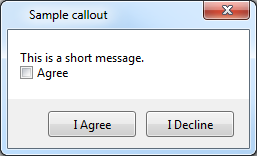
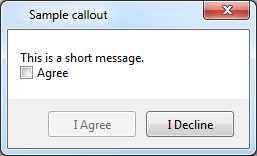
Add IsEnabled button configuration for WPF

Changed region(s): [[0.1868, 0.6923, 0.5292, 0.8974]]

diff --git a/CrossPlatformLibrary.Callouts.Netfx/CustomMessageBox/CustomMessageBoxWindow.xaml b/CrossPlatformLibrary.Callouts.Netfx/CustomMessageBox/CustomMessageBoxWindow.xaml
@@ -70,6 +70,7 @@
                                     Visibility="Visible" 
                                     DockPanel.Dock="Right" 
                                     Click="OnButtonClicked"
+                                    IsEnabled="{Binding IsEnabled}"
                                     Tag="{Binding}">
                                 <Label Content="{Binding Text}" Padding="0" Margin="10,0" />
                             </Button>

diff --git a/CrossPlatformLibrary.Callouts/ButtonConfig.cs b/CrossPlatformLibrary.Callouts/ButtonConfig.cs
@@ -1,4 +1,6 @@
 using System;
+using System.ComponentModel;
+using System.Runtime.CompilerServices;
 
 namespace CrossPlatformLibrary.Callouts
 {
@@ -6,12 +8,10 @@ namespace CrossPlatformLibrary.Callouts
     /// ButtonConfig is the platform-independent abstraction
     /// of a dialog button.
     /// </summary>
-    public class ButtonConfig
+    public class ButtonConfig : INotifyPropertyChanged
     {
         private bool isEnabled;
-
-        public event EventHandler<bool> EnabledChanged;
-
+        
         /// <summary>
         /// Initializes a new instance of the <see cref="ButtonConfig"/> class.
         /// </summary>
@@ -44,18 +44,32 @@ namespace CrossPlatformLibrary.Callouts
                 if (this.isEnabled != value)
                 {
                     this.isEnabled = value;
+                    this.OnPropertyChanged();
                     this.OnEnabledChanged(value);
                 }
             }
         }
 
-        ////public bool IsPositive { get; set; }
-
-        ////public bool IsNegative { get; set; }
+        public event EventHandler<bool> EnabledChanged;
 
         protected virtual void OnEnabledChanged(bool e)
         {
-            this.EnabledChanged?.Invoke(this, e);
+            var handler = this.EnabledChanged;
+            if (handler != null)
+            {
+                handler(this, e);
+            }
+        }
+
+        public event PropertyChangedEventHandler PropertyChanged;
+
+        protected virtual void OnPropertyChanged([CallerMemberName] string propertyName = null)
+        {
+            var handler = this.PropertyChanged;
+            if (handler != null)
+            {
+                handler(this, new PropertyChangedEventArgs(propertyName));
+            }
         }
     }
 }

diff --git a/Samples/CalloutsSample.WPF/MainWindow.xaml.cs b/Samples/CalloutsSample.WPF/MainWindow.xaml.cs
@@ -1,4 +1,5 @@
-using System.Windows;
+using System.Diagnostics;
+using System.Windows;
 using System.Windows.Controls;
 
 using CrossPlatformLibrary.Callouts;
@@ -28,15 +29,17 @@ namespace CalloutSample.WPF
 
         private void Button_OnClick_ContentCallout(object sender, RoutedEventArgs e)
         {
+            var okButtonConfig = new ButtonConfig("I Agree", () => { Debug.WriteLine("Agreed!"); }, isEnabled: false);
+            var cancelButtonConfig = new ButtonConfig("I Decline", () => { Debug.WriteLine("Disagreed!"); });
+            var buttonConfigs = new[] { okButtonConfig, cancelButtonConfig };
+
             var panel = new StackPanel();
-
             panel.Children.Add(new TextBlock { Text = "This is a short message.", TextWrapping = TextWrapping.Wrap, });
-
+            
             var checkBox = new CheckBox { Content = "Agree" };
-            checkBox.Checked += (o, args) => { };
+            checkBox.Checked += (o, args) => { okButtonConfig.IsEnabled = true; };
+            checkBox.Unchecked += (o, args) => { okButtonConfig.IsEnabled = false; };
             panel.Children.Add(checkBox);
-
-            var buttonConfigs = new[] { new ButtonConfig("I Agree", () => { }), new ButtonConfig("I Decline") };
 
             this.callout.Show(
                 this.CaptionTextBox.Text,
